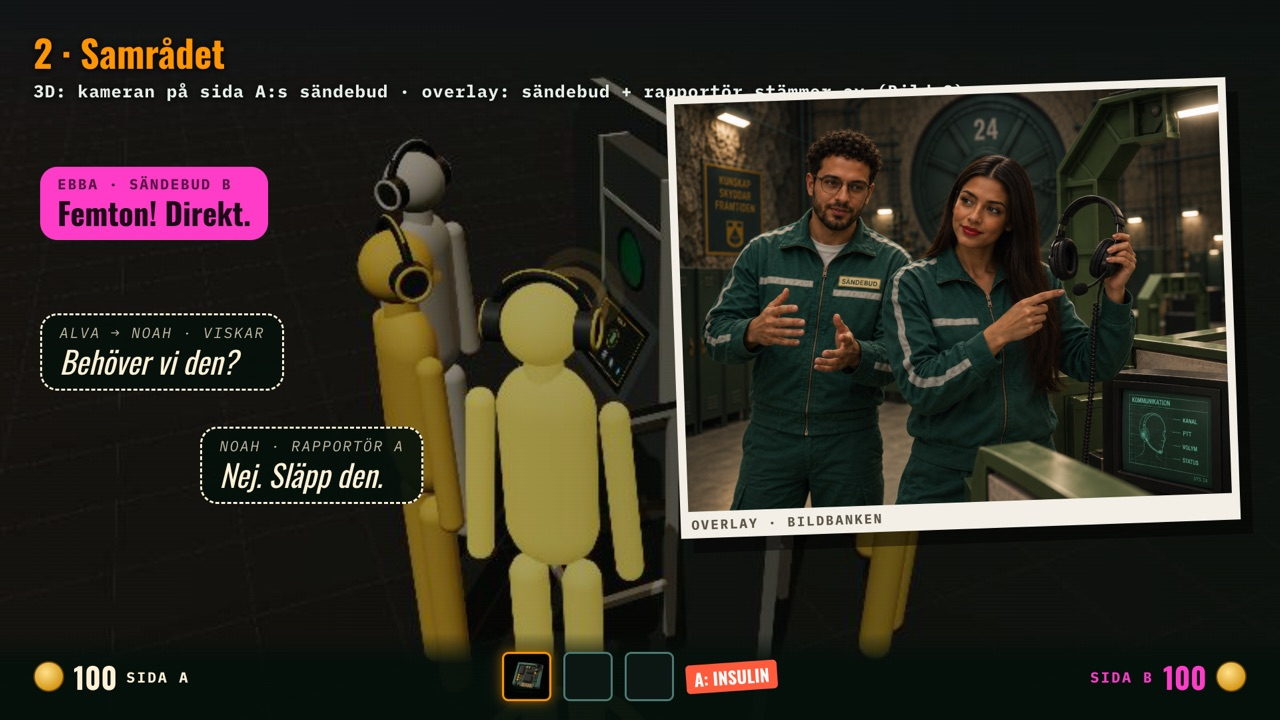
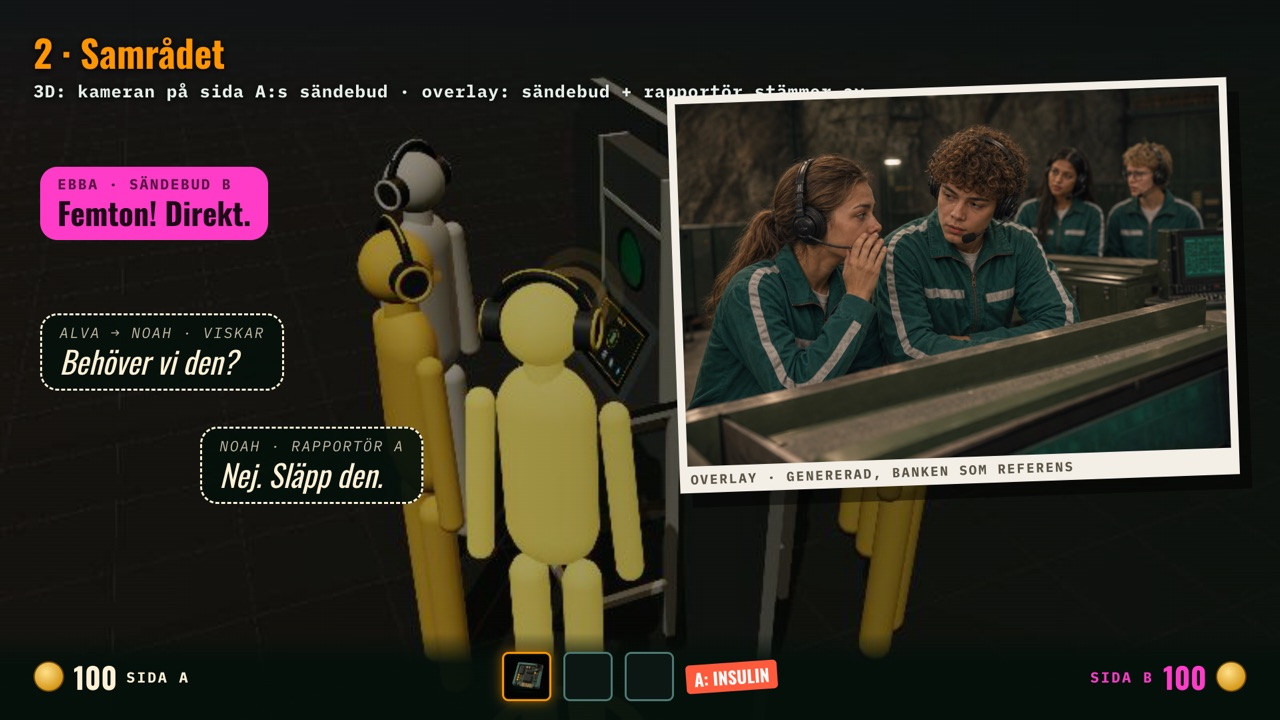
docs: exempelförhandlingen — sex scener med fyra fasta ungdomar (karaktärsark), bildbanken som stilreferens

Changed region(s): [[0.5, 0.1222, 0.9688, 0.7639]]

diff --git a/docs/exempelforhandling-2026-11/illustration/index.html b/docs/exempelforhandling-2026-11/illustration/index.html
@@ -53,7 +53,7 @@
       <div id="f1" class="f clip" data-start="0" data-duration="2" data-track-index="1" data-layout-allow-overlap>
         <img class="f-bg" src="assets/3d/bred.jpg" alt="" /><div class="f-dimma"></div>
         <div class="f-rubrik">1 · Öppning<small>3D: hela stationen, båda sidor · VALdi ramar in</small></div>
-        <div class="f-foto"><img src="assets/bank/bild1.jpg" alt="" /><span>OVERLAY · BILDBANKEN</span></div>
+        <div class="f-foto"><img src="assets/scen/s1-oppning.jpg" alt="" /><span>OVERLAY · GENERERAD, BANKEN SOM REFERENS</span></div>
         <div class="valdi"><small>VALDI</small>Lyssna. En inspelning från ett tidigare test. Sida A behövde insulin.</div>
         <div class="hud"><span class="hud-pengar hud-a"><i></i>100 <small>SIDA A</small></span>
           <span class="hud-mitt"><span class="hud-lucka aktiv"><img src="assets/bild/styrkort.png" alt="" /></span><span class="hud-lucka"></span><span class="hud-lucka"></span><span class="hud-tagg">A: INSULIN</span></span>
@@ -63,8 +63,8 @@
       <!-- 2 · SAMRÅD -->
       <div id="f2" class="f clip" data-start="2" data-duration="2" data-track-index="1" data-layout-allow-overlap>
         <img class="f-bg" src="assets/3d/a-talar.jpg" alt="" /><div class="f-dimma"></div>
-        <div class="f-rubrik">2 · Samrådet<small>3D: kameran på sida A:s sändebud · overlay: sändebud + rapportör stämmer av (Bild 2)</small></div>
-        <div class="f-foto"><img src="assets/bank/bild2.jpg" alt="" /><span>OVERLAY · BILDBANKEN</span></div>
+        <div class="f-rubrik">2 · Samrådet<small>3D: kameran på sida A:s sändebud · overlay: sändebud + rapportör stämmer av</small></div>
+        <div class="f-foto"><img src="assets/scen/s2-samrad.jpg" alt="" /><span>OVERLAY · GENERERAD, BANKEN SOM REFERENS</span></div>
         <div class="f-bubbla b" style="left:60px;top:250px"><small>EBBA · SÄNDEBUD B</small>Femton! Direkt.</div>
         <div class="f-bubbla viska" style="left:60px;top:470px"><small>ALVA → NOAH · VISKAR</small>Behöver vi den?</div>
         <div class="f-bubbla viska" style="left:300px;top:640px"><small>NOAH · RAPPORTÖR A</small>Nej. Släpp den.</div>
@@ -76,8 +76,8 @@
       <!-- 3 · BLUFFEN -->
       <div id="f3" class="f clip" data-start="4" data-duration="2" data-track-index="1" data-layout-allow-overlap>
         <img class="f-bg" src="assets/3d/a-sida.jpg" alt="" /><div class="f-dimma"></div>
-        <div class="f-rubrik">3 · Bluffen<small>3D: sida A · overlay: viskningen (Bild 3)</small></div>
-        <div class="f-foto"><img src="assets/bank/bild3.jpg" alt="" /><span>OVERLAY · BILDBANKEN</span></div>
+        <div class="f-rubrik">3 · Bluffen<small>3D: sida A · overlay: viskningen</small></div>
+        <div class="f-foto"><img src="assets/scen/s3-bluff.jpg" alt="" /><span>OVERLAY · GENERERAD, BANKEN SOM REFERENS</span></div>
         <div class="f-bubbla viska" style="left:60px;top:230px"><small>NOAH · VISKAR (BARA A HÖR)</small>Låtsas att vi måste ha bränslecellen. Då tror de att det är den.</div>
         <div class="f-bubbla a" style="left:200px;top:560px"><small>ALVA · SÄNDEBUD A</small>Bränslecellen behöver vi verkligen. Trettio!</div>
         <div class="hud"><span class="hud-pengar hud-a"><i></i>100 <small>SIDA A</small></span>
@@ -88,8 +88,8 @@
       <!-- 4 · B BETALAR -->
       <div id="f4" class="f clip" data-start="6" data-duration="2" data-track-index="1" data-layout-allow-overlap>
         <img class="f-bg" src="assets/3d/b-sida.jpg" alt="" /><div class="f-dimma"></div>
-        <div class="f-rubrik">4 · B betalar för fel vara<small>3D: sida B · overlay: B inser (Bild 9) · HUD: B:s pengar rasar</small></div>
-        <div class="f-foto"><img src="assets/bank/bild9.jpg" alt="" /><span>OVERLAY · BILDBANKEN</span></div>
+        <div class="f-rubrik">4 · B betalar för fel vara<small>3D: sida B · overlay: B inser · HUD: B:s pengar rasar</small></div>
+        <div class="f-foto"><img src="assets/scen/s4-b-insikt.jpg" alt="" /><span>OVERLAY · GENERERAD, BANKEN SOM REFERENS</span></div>
         <div class="f-bubbla b" style="left:60px;top:240px"><small>EBBA</small>Sextio. Den är vår.</div>
         <div class="stampel">SÅLD · B · 60</div>
         <div class="hud"><span class="hud-pengar hud-a"><i></i>100 <small>SIDA A</small></span>
@@ -100,8 +100,8 @@
       <!-- 5 · INSULINET -->
       <div id="f5" class="f clip" data-start="8" data-duration="2" data-track-index="1" data-layout-allow-overlap>
         <img class="f-bg" src="assets/3d/a-talar.jpg" alt="" /><div class="f-dimma"></div>
-        <div class="f-rubrik">5 · Den livsviktiga, billigt<small>3D: sida A · overlay: lugnet (Bild 10) · HUD: LIVSVIKTIG lyser</small></div>
-        <div class="f-foto"><img src="assets/bank/bild10.jpg" alt="" /><span>OVERLAY · BILDBANKEN</span></div>
+        <div class="f-rubrik">5 · Den livsviktiga, billigt<small>3D: sida A · overlay: lugnet · HUD: LIVSVIKTIG lyser</small></div>
+        <div class="f-foto"><img src="assets/scen/s5-nonchalant.jpg" alt="" /><span>OVERLAY · GENERERAD, BANKEN SOM REFERENS</span></div>
         <div class="f-bubbla viska" style="left:60px;top:240px"><small>NOAH · VISKAR</small>Nu. Låtsas att du inte bryr dig.</div>
         <div class="f-bubbla a" style="left:120px;top:440px"><small>ALVA</small>Insulin? Tja. Tio kronor.</div>
         <div class="f-bubbla b" style="left:360px;top:640px"><small>EBBA</small>Vi har nästan inga pengar kvar. Ta den.</div>
@@ -113,8 +113,8 @@
       <!-- 6 · GISSNINGEN -->
       <div id="f6" class="f clip" data-start="10" data-duration="2" data-track-index="1" data-layout-allow-overlap>
         <img class="f-bg" src="assets/3d/bred.jpg" alt="" /><div class="f-dimma"></div>
-        <div class="f-rubrik">6 · Gissningen = rapportörens jobb<small>overlay: rapportören resonerar (Bild 8) · HUD: rätt ×2 / lurade</small></div>
-        <div class="f-foto"><img src="assets/bank/bild8.jpg" alt="" /><span>OVERLAY · BILDBANKEN</span></div>
+        <div class="f-rubrik">6 · Gissningen = rapportörens jobb<small>overlay: rapportören resonerar · HUD: rätt ×2 / lurade</small></div>
+        <div class="f-foto"><img src="assets/scen/s6-gissa.jpg" alt="" /><span>OVERLAY · GENERERAD, BANKEN SOM REFERENS</span></div>
         <div class="f-bubbla a" style="left:60px;top:230px"><small>NOAH · RAPPORTÖR A</small>De tog styrkortet direkt, utan att tveka. Den var deras.</div>
         <div class="utfall" style="left:60px;top:520px">A gissar styrkort<br /><b style="background:#7ad14f;color:#0b1a07">RÄTT · ×2</b></div>
         <div class="utfall" style="left:520px;top:520px;border:3px solid #ff3cc8">B gissar bränslecell<br /><b style="background:#ff5a3c">LURADE</b></div>

diff --git a/docs/FORSLAG-EXEMPELFORHANDLING.md b/docs/FORSLAG-EXEMPELFORHANDLING.md
@@ -27,7 +27,7 @@ Människa eller maskins exempelrunda är förebilden: samma rollfördelning (rö
 | Lager | Vad det visar | Varför det behövs |
 |---|---|---|
 | **3D-scenen** (befintlig `lucka-3d`, kameran lutar mot den som pratar) | *Vem* som pratar och var den står. A och B på var sin sida om väggen. | Skillnaden mellan sidorna, och mellan sändebud och rapportör, syns i rummet. |
-| **Overlaybilder ur bildbanken** (`public/assets/Bild 1–10`) | *Känslan*: viskningen bakom handen, eftertanken, lugnet, frustrationen. | 3D-gubbarna har inga ansikten. Människan bär bluffen. |
+| **Overlaybilder** (genererade med bildbanken `public/assets/Bild 1–10` som referens, fyra fasta personer) | *Känslan*: viskningen bakom handen, eftertanken, lugnet, frustrationen. | 3D-gubbarna har inga ansikten. Människan bär bluffen. |
 | **Tunt HUD** (luckorna, pris, A:s och B:s mynt, LIVSVIKTIG) | *Strategin i siffror*: B betalar 60 för fel vara, A tar insulinet för 10. | Utan siffror syns aldrig *att* bluffen lönade sig. Bara två saker är stora (pengarna och den livsviktiga), samma ordning som den renodlade skärmen. |
 
 **Andra sätt jag övervägde:**
@@ -42,23 +42,29 @@ Människa eller maskins exempelrunda är förebilden: samma rollfördelning (rö
 - **Tydlig talarmarkering.**
 - **Kameran följer manusets repliker.** Scenens tidslinje finns redan (`talk('A'|'B')`) och behöver bara matas från `manus.json`.
 
-### Bildbanken mot manuset
+### Overlaybilderna: nya bilder med banken som referens (Josef 2026-11-24)
 
-| Ögonblick | Bild | Passar |
+Bildbanken (`public/assets/Bild 1–10`) har rätt stämning och plats, men flera av personerna där är vuxna instruktörer.
+Därför **genereras nya bilder med banken bara som stilreferens**, så att alla bilder följer **samma fyra ungdomar**:
+
+1. **Karaktärsarket** ([`bilder/karaktarer.jpg`](exempelforhandling-2026-11/bilder/karaktarer.jpg)):
+   - **Sida A:** Alva (ljusbrun hästsvans, sändebud) och Noah (lockigt hår, rapportör). Det är paret från bankens viskbild.
+   - **Sida B:** Ebba (långt mörkt hår, sändebud) och Ville (blond, runda glasögon, rapportör).
+   - Samma dräkter med reflexrand och headset som i banken.
+2. **Varje scen** genereras med karaktärsarket plus en bankbild som referens för stämning och komposition:
+
+| Ruta | Scen | Bankbild som referens |
 |---|---|---|
-| Öppning: gruppen vid konsolen | **Bild 1** | ✓ |
-| Samrådet: sändebudet stämmer av med rapportören | **Bild 2** | ✓ samma par |
-| Bluffen: viskningen bakom handen | **Bild 3** | ✓ handlingen, ⚠ men ett annat, yngre par |
-| B inser att de slösat | **Bild 9** (delad bild, en frustrerad person på ena sidan) | ✓ |
-| Insulinet billigt: lugnet | **Bild 10** (även Bild 7) | ✓ samma par |
-| Gissningen: rapportören resonerar | **Bild 8** (handen vid hakan, pekfingret upp) | ✓ samma par |
+| 1 Öppning | alla fyra vid konsolen, mellanväggen mellan sidorna | Bild 6 |
+| 2 Samrådet | Alva stämmer av med Noah | Bild 2 |
+| 3 Bluffen | Noah viskar bakom handen, Alva ler i smyg | Bild 3 |
+| 4 B inser | Ville med handen mot pannan, Ebba stirrar på skärmen | Bild 9 |
+| 5 Insulinet | Alva rycker på axlarna, Noah döljer ett leende | Bild 10 |
+| 6 Gissningen | Noah vid skärmen, finger vid hakan och "aha", Alva bakom | Bild 8 |
 
-Mannen med glasögon och SÄNDEBUD-märket och kvinnan med headset återkommer i Bild 2, 4, 7, 8 och 10. De blir **sida A** (Adam, sändebud, och Noor, rapportör).
+Modell: `gpt-image-2` via `xy-bildgen`. Bilderna ligger i `exempelforhandling-2026-11/illustration/assets/scen/`.
 
-**Den enda luckan är Bild 3.** Den visar rätt handling men ett annat par. Två lösningar:
-- **(a)** Låt bildparet vara sida B:s egna viskningar.
-- **(b)** Gör en variant av Bild 3 med A-paret. Bildredigeringen *utgår då från banken* (Bild 2 och 3 som referenser), och ingen generisk bild genereras. Rekommenderas.
-
+![Karaktärsarket](exempelforhandling-2026-11/bilder/karaktarer.jpg)
 ![Rutorna 1–6](exempelforhandling-2026-11/bilder/ruta-1.jpg)
 
 ## 3. Manuset (v2, ~57 s)
@@ -66,14 +72,14 @@ Mannen med glasögon och SÄNDEBUD-märket och kvinnan med headset återkommer i
 | | Vem | Replik | Syfte |
 |---|---|---|---|
 | ram | VALdi | Lyssna. En inspelning från ett tidigare test. Sida A behövde insulin. | ramen, som i Människa eller maskin |
-| **Lucka 1 · styrkort** | Ebba (B) / Adam (A) | Styrkortet? Vi ger tio. — Femton! Direkt. | så går en lucka |
-| | Adam → Noor *(viskar)* | Behöver vi den? — Nej. Släpp den. | **sändebudet frågar rapportören** |
-| | Adam | Ta det. → *klubba B 15* | |
-| **Lucka 2 · bränslecell** | Noor *(viskar)* | Låtsas att vi måste ha bränslecellen. Då tror de att det är den. | **bluffen, rapportörens idé** |
-| | Adam / Ebba | Bränslecellen behöver vi verkligen. Trettio! — Fyrtio. — Femtio! — Sextio. Den är vår. — Okej … ta den då. | B budar upp fel vara → *klubba B 60* |
-| **Lucka 3 · insulin** | Noor *(viskar)* | Nu. Låtsas att du inte bryr dig. | |
-| | Adam / Ebba | Insulin? Tja. Tio kronor. — Vi har nästan inga pengar kvar. Ta den. | **utdelningen** → *klubba A 10* |
-| **Gissningen** | Noor | Vilken var deras? De tog styrkortet direkt, utan att tveka. Den var deras. | **rapportörens resonemang** → rätt, ×2 |
+| **Lucka 1 · styrkort** | Ebba (B) / Alva (A) | Styrkortet? Vi ger tio. — Femton! Direkt. | så går en lucka |
+| | Alva → Noah *(viskar)* | Behöver vi den? — Nej. Släpp den. | **sändebudet frågar rapportören** |
+| | Alva | Ta det. → *klubba B 15* | |
+| **Lucka 2 · bränslecell** | Noah *(viskar)* | Låtsas att vi måste ha bränslecellen. Då tror de att det är den. | **bluffen, rapportörens idé** |
+| | Alva / Ebba | Bränslecellen behöver vi verkligen. Trettio! — Fyrtio. — Femtio! — Sextio. Den är vår. — Okej … ta den då. | B budar upp fel vara → *klubba B 60* |
+| **Lucka 3 · insulin** | Noah *(viskar)* | Nu. Låtsas att du inte bryr dig. | |
+| | Alva / Ebba | Insulin? Tja. Tio kronor. — Vi har nästan inga pengar kvar. Ta den. | **utdelningen** → *klubba A 10* |
+| **Gissningen** | Noah | Vilken var deras? De tog styrkortet direkt, utan att tveka. Den var deras. | **rapportörens resonemang** → rätt, ×2 |
 | | Ville (B) | Deras var bränslecellen. De ville ju ha den så mycket. | B blev lurad |
 | ram | VALdi | Sändebudet pratar. Rapportören lyssnar och tänker. Dölj vad ni behöver, och hör vad de behöver. | sensmoralen |
 
@@ -122,7 +128,6 @@ Mannen med glasögon och SÄNDEBUD-märket och kvinnan med headset återkommer i
 | # | Fråga | Mitt förslag |
 |---|---|---|
 | 1 | Tre lager (3D, bildbanken, tunt HUD)? | ja |
-| 2 | Bild 3: (a) B:s par eller (b) en variant med A-paret som utgår från banken? | (b) |
 | 3 | Provluckan bort? | ja, men behåll som flagga |
-| 4 | Namnen Adam och Noor (sida A, bildbankens par), Ebba och Ville (sida B)? | ok som utkast |
+| 4 | Namnen Alva och Noah (sida A), Ebba och Ville (sida B), enligt karaktärsarket? | ok som utkast |
 | 5 | Får rösterna genereras med ElevenLabs-nyckeln? | ja |
